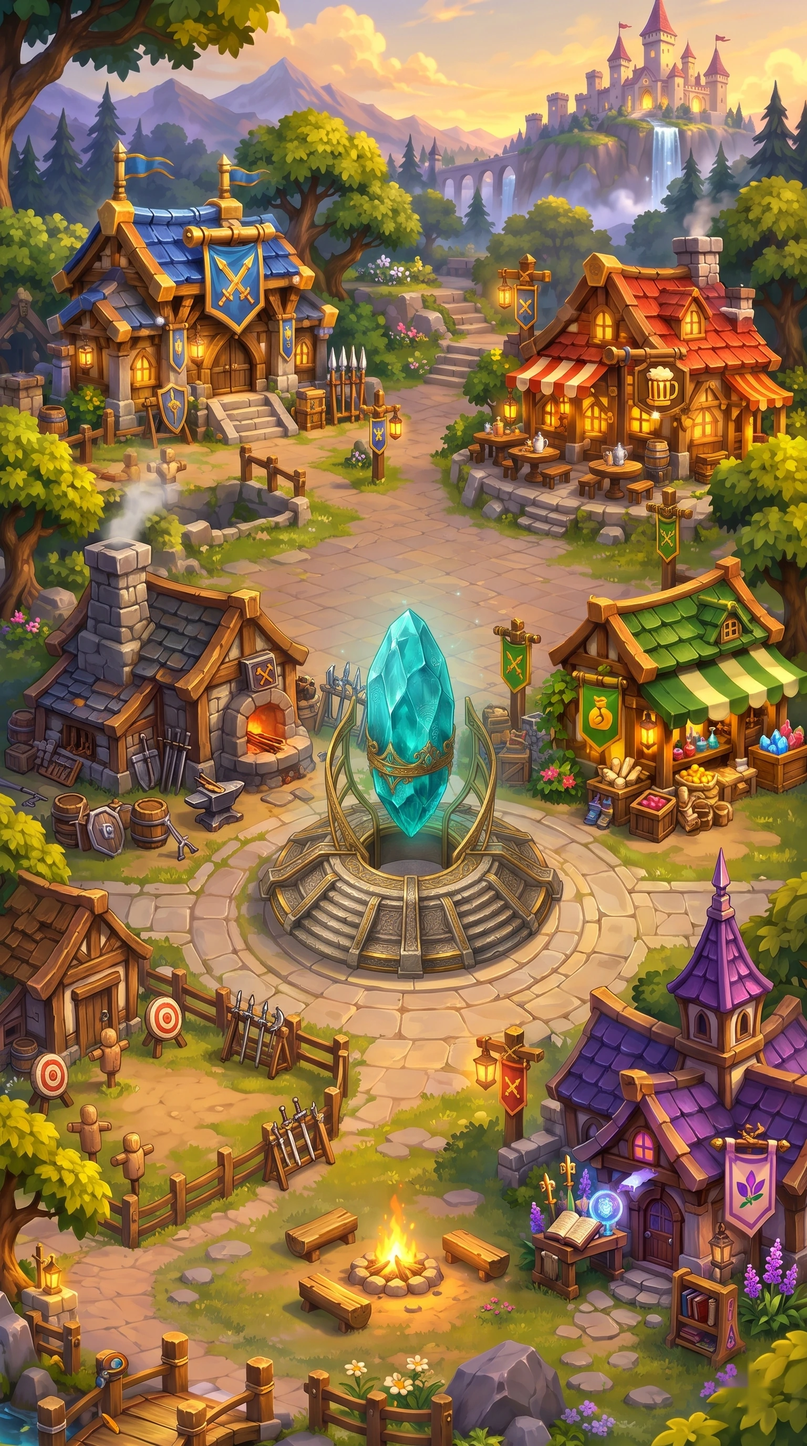
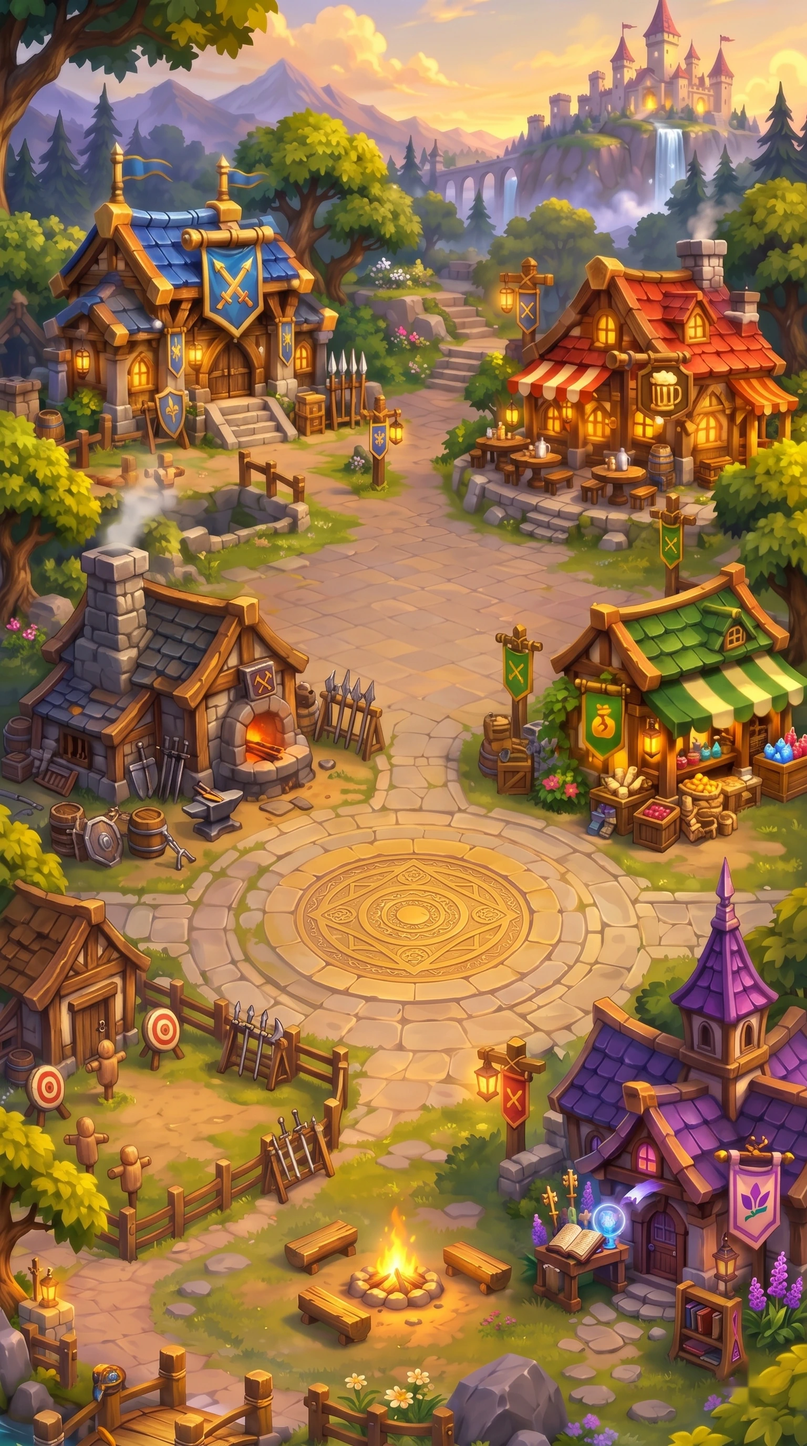
V4.6.2 : village vertical sans cristal, cristal évolutif en portrait
Claude-Session: https://claude.ai/code/session_017NXKp1CqDSb9pRtfrcKwfG

diff --git a/src/home.js b/src/home.js
@@ -9,29 +9,29 @@ import {AT,icon,uiURL,logoURL,drawF,heroFrame} from './render.js';
 import {setSon,sonBtns,sfx} from './audio.js';
 import {specOf} from './talents.js';
 
-export const VERSION='4.6.1';
+export const VERSION='4.6.2';
 const el=(tag,cls,html)=>{const e=document.createElement(tag);if(cls)e.className=cls;if(html!=null)e.innerHTML=html;return e};
 // Deux peintures du village (V4.6.1 : six bâtiments). Positions en pixels « logiques » de la scène (l'image réelle est plus grande).
 // bâtiments : zone tactile z [x,y,largeur,hauteur], plaque l [x,y] au pied
 // lumières glow [x,y,rayon,genre] : l lanterne, w fenêtre, f feu, m magie ; camp : héros [x,y des pieds, héros, miroir]
 // box : partie utile à garder visible [largeur, hauteur, centre x, centre y]
-// cry : cristal. Vertical : zone [x,y,largeur,hauteur] sur le cristal peint. Horizontal : calque, [centre x, bas y]
+// cry : calque du cristal [centre x, bas y] ; ck : échelle des états 1 à 4 puis du 5e (un peu réduit pour ne pas cacher les voisins)
 const INFO={caserne:{ic:['items',5],n:'Caserne',d:'Tes héros'},taverne:{ic:['items',17],n:'Taverne',d:'Contrats et défi'},
  forge:{ic:['ficon',0],n:'Forge',d:'Améliorer'},marchand:{ic:['items',15],n:'Marchand',d:'Acheter, vendre'},
  entrainement:{ic:['spells',0],n:'Entraînement',d:'Bientôt'},talents:{ic:['ui',12],n:'Académie',d:'Talents'}};
 const place=P=>Object.entries(P).map(([id,[z,l]])=>({id,...INFO[id],z,l}));
 const SCENES={
- // verticale : téléphone droit et écrans presque carrés
+ // verticale : téléphone droit et écrans presque carrés (V4.6.2 : sans cristal peint)
  p:{src:'assets/village.webp',w:941,h:1686,box:[905,1390,470,862],hero:[130,158],
   bld:place({caserne:[[40,180,385,370],[225,535]],taverne:[[535,290,390,300],[722,590]],forge:[[0,630,370,350],[178,985]],marchand:[[640,655,301,315],[752,978]],
    entrainement:[[0,1020,405,390],[205,1215]],talents:[[590,1030,351,520],[755,1515]]}),
-  glow:[[98,415,42,'l'],[232,415,42,'l'],[165,432,40,'w'],[462,498,40,'l'],[590,335,42,'l'],[702,380,40,'w'],[806,378,40,'w'],[690,490,46,'w'],[832,492,46,'w'],
-   [308,850,85,'f'],[757,855,42,'l'],[852,737,34,'w'],[566,1248,48,'l'],[747,1338,42,'w'],[707,1408,52,'m'],[840,1448,42,'l'],[60,1488,42,'l'],[460,1455,110,'f']],
-  smoke:[[140,630,1],[808,265,.8]],water:[0,1605,100,75],
+  glow:[[94,421,42,'l'],[229,421,42,'l'],[161,439,40,'w'],[462,505,40,'l'],[591,341,42,'l'],[705,386,40,'w'],[810,384,40,'w'],[693,497,46,'w'],[836,499,46,'w'],
+   [306,860,85,'f'],[760,865,42,'l'],[857,746,34,'w'],[567,1262,48,'l'],[750,1353,42,'w'],[710,1423,52,'m'],[844,1464,42,'l'],[55,1504,42,'l'],[460,1471,110,'f']],
+  smoke:[[136,638,1],[812,270,.8]],water:[0,1605,100,75],
   // feuillages qui ondulent : on redessine un morceau de la peinture, à bords fondus
   leaves:[[0,0,300,170],[0,1270,100,190],[0,500,115,160],[850,500,91,170]],
-  camp:[[262,1525,0,false],[345,1420,1,false],[590,1432,2,true]],cry:[345,710,265,420]},
- // horizontale : paysage large, sans cristal peint (le calque évolue avec les régions terminées)
+  camp:[[262,1525,0,false],[345,1420,1,false],[590,1432,2,true]],cry:[480,1140],ck:[.507,.44]},
+ // horizontale : paysage large
  l:{src:'assets/village-paysage.webp',w:1536,h:1030,box:[940,880,700,535],hero:[100,122],
   bld:place({caserne:[[495,105,230,235],[608,340]],taverne:[[800,175,270,195],[940,368]],forge:[[470,390,235,215],[578,605]],marchand:[[850,405,225,200],[978,600]],
    entrainement:[[225,625,420,255],[430,862]],talents:[[865,610,265,345],[1005,932]]}),
@@ -39,9 +39,9 @@ const SCENES={
    [828,765,38,'l'],[945,820,34,'w'],[918,862,45,'m'],[1090,858,32,'w'],[1005,893,30,'l'],[505,912,30,'l'],[1197,378,34,'w'],[1370,468,45,'m'],[762,892,75,'f']],
   smoke:[[558,390,.9],[986,172,.7]],water:[400,975,130,55],
   leaves:[[0,300,165,220],[0,840,200,190],[1400,770,136,200],[1380,0,156,190]],
-  camp:[[655,928,0,false],[722,852,1,false],[846,892,2,true]],cry:[765,697]}};
-// Cristal de l'Éther : [largeur, hauteur] des 5 images, et échelle vers la scène horizontale (le 5e est un peu réduit pour ne pas cacher le Marchand)
-const CRY=[[370,544],[374,639],[403,768],[700,896],[889,1301]],cryK=n=>n===5?.26:.285;
+  camp:[[655,928,0,false],[722,852,1,false],[846,892,2,true]],cry:[765,697],ck:[.285,.26]}};
+// Cristal de l'Éther : [largeur, hauteur] des 5 images
+const CRY=[[370,544],[374,639],[403,768],[700,896],[889,1301]];
 let tab='camp',A=null,root=null;
 const today=()=>A.today();
 // ---------- notifications ----------
@@ -65,9 +65,8 @@ function scene(k){
  for(const[x,y,k]of Q.smoke)for(let i=0;i<4;i++){const s=el('i','v-smoke');s.style.cssText=pc(x-26*k,y-26*k,52*k,52*k);s.style.animationDelay=-i*1.1+'s';stage.append(s)}
  {const w=el('i','v-water');w.style.cssText=pc(...Q.water);stage.append(w)}
  // Cristal de l'Éther → Expéditions
- {const painted=k==='p',st=crystalState(save);let rect=Q.cry;if(!painted){const[w,h]=CRY[st-1].map(v=>v*cryK(st));rect=[Q.cry[0]-w/2,Q.cry[1]-h,w,h]}
-  const c=el('button','v-cry'+(painted?' painted':''));c.style.cssText=pc(...rect);c.dataset.state=st;c.setAttribute('aria-label','Cristal de l’Éther : expéditions, revanches');
-  c.innerHTML=(painted?'':`<img src="assets/cry/crystal${st}.webp" alt="">`)+'<i class="v-cry-glow"></i>';
+ {const st=crystalState(save),[w,h]=CRY[st-1].map(v=>v*Q.ck[st===5?1:0]);
+  const c=el('button','v-cry',`<img src="assets/cry/crystal${st}.webp" alt=""><i class="v-cry-glow"></i>`);c.style.cssText=pc(Q.cry[0]-w/2,Q.cry[1]-h,w,h);c.dataset.state=st;c.setAttribute('aria-label','Cristal de l’Éther : expéditions, revanches');
   const p=el('span','v-plate',`<span><b>Cristal</b><small>Expéditions</small></span>`);p.prepend(icon('ico',0,28));c.append(p);c.onclick=()=>show('expe');stage.append(c)}
  // héros autour du feu
  for(const[x,y,i,flip]of Q.camp){const[hw,hh]=Q.hero,b=el('button','v-hero');b.style.cssText=pc(x-hw/2,y-hh*.95,hw,hh);b.setAttribute('aria-label',`${HER[i].n} : voir la fiche`);

diff --git a/home.css b/home.css
@@ -141,7 +141,7 @@
 button.v-cl{cursor:pointer}button.v-cl:hover,button.v-cl:focus-visible{background:#ffd65a22;outline:2px solid #ffd65a88}
 .v-cl small{font-weight:600;color:#e8d6b8}
 .v-chap{cursor:pointer;font:inherit}
-/* Cristal de l'Éther : calque (paysage) ou zone sur le cristal peint (portrait) */
+/* Cristal de l'Éther : calque posé sur la place ronde */
 .v-cry{position:absolute;z-index:2;background:none;border:0;padding:0;cursor:pointer;color:var(--cream)}
 .v-cry i{position:absolute;display:block;pointer-events:none}
 .v-cry img{position:absolute;inset:0;width:100%;height:100%;display:block;filter:drop-shadow(0 4px 5px #0007)}

diff --git a/index.html b/index.html
@@ -11,7 +11,7 @@
 <meta name="apple-mobile-web-app-title" content="Tactika">
 <meta name="apple-mobile-web-app-status-bar-style" content="black-translucent">
 <meta name="theme-color" content="#16220f">
-<title>Tactika — V4.6.1</title>
+<title>Tactika — V4.6.2</title>
 <link rel="preload" as="image" href="assets/village.webp">
 <link rel="preconnect" href="https://fonts.gstatic.com" crossorigin>
 <link rel="stylesheet" href="https://fonts.googleapis.com/css2?family=Lilita+One&family=Nunito:wght@700;800;900&display=swap" media="print" onload="this.media='all'">

diff --git a/NOTES.md b/NOTES.md
@@ -1,5 +1,8 @@
 # Notes du projet Tactika
 
+## V4.6.2 (27/11/2026) : cristal évolutif en portrait
+- Village vertical sans cristal (G-18) ; le calque `assets/cry/` sert maintenant dans les deux sens (`SCENES.*.cry`, `ck`).
+
 ## V4.6.1 (27/11/2026) : nouveau village et lisibilité
 - Village vertical (six bâtiments, cristal peint) et horizontal (sans cristal), préparés avec `tools/prep_bg.py`. Coordonnées « logiques » dans `SCENES` (941×1686 et 1536×1030).
 - Entraînement : « bientôt » (V4.7). L'ancien bâtiment Talents devient l'Académie.
